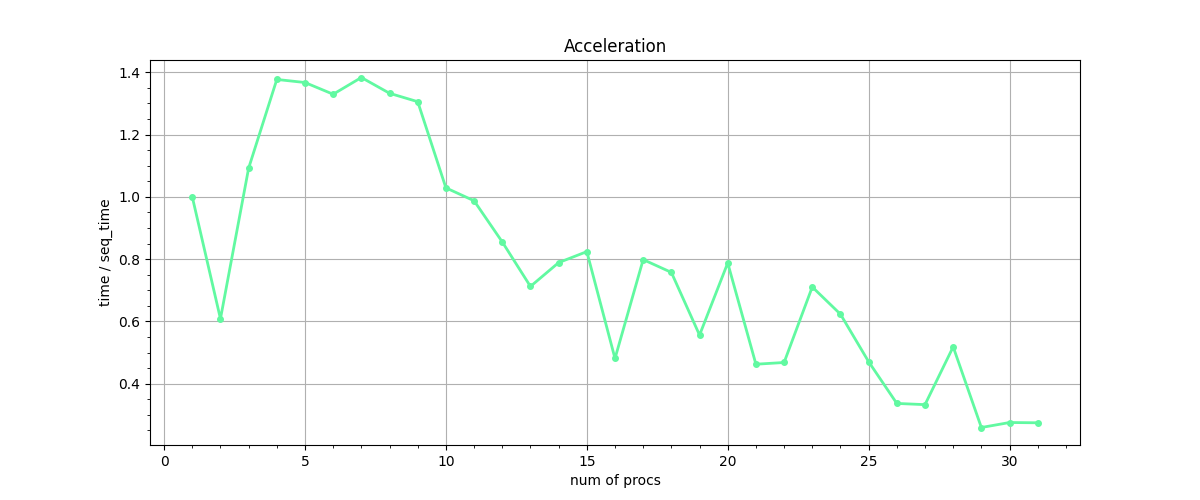
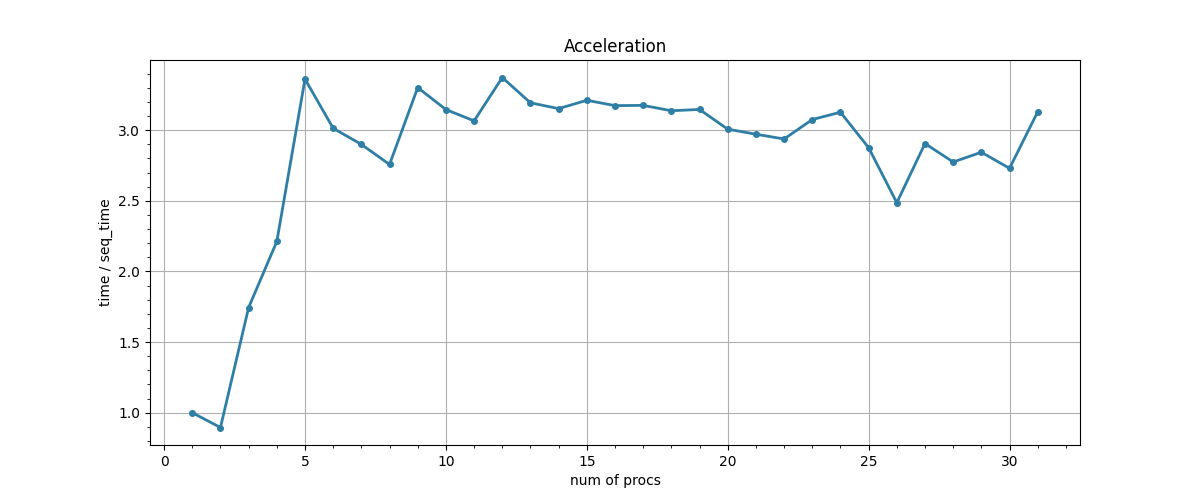
Distribution by executors

diff --git a/ParallelingLoops/1e/parallel.c b/ParallelingLoops/1e/parallel.c
@@ -51,6 +51,39 @@ void foldMatrixByVector(double **matrix, const double *vector, const int len) {
     }
 }
 
+void computeRows(int x_root) {
+    double message[YSIZE + 1];
+    int x0 = x_root;
+    message[0] = (double) x0;
+    double *arr = message + 1;
+    for (int y = 0; y < YSIZE; ++y) {
+        arr[y] = initial_value(y, x0);
+    }
+    MPI_Send(
+        message,
+        YSIZE + 1,
+        MPI_DOUBLE,
+        0, // the zero rank.
+        0,
+        MPI_COMM_WORLD
+    );
+    for (x0 = x0 + 8; x0 < XSIZE; x0 += 8) {
+        message[0] = (double) x0;
+        for (int y = YSIZE-1; y > 0; --y) {
+            arr[y] = sin(5 * arr[y - 1]);
+        }
+        arr[0] = initial_value(0, x0);
+        MPI_Send(
+            message,
+            YSIZE + 1,
+            MPI_DOUBLE,
+            0, // the zero rank.
+            0,
+            MPI_COMM_WORLD
+        );
+    }
+}
+
 int main(int argc, char* argv[]) {
     if (argc != 1 && argc != 2) {
         printf("Wrong number of args! Please provide 2 arguments\n");
@@ -94,7 +127,6 @@ int main(int argc, char* argv[]) {
                 MPI_COMM_WORLD,
                 &status
             );
-            int x0 = (int) buf[0];
             int message_len = 0;
             MPI_Get_count(&status, MPI_DOUBLE, &message_len);
             DB_PRINT("get message from %i, len = %i, x0 = %i\n",
@@ -106,35 +138,10 @@ int main(int argc, char* argv[]) {
         // Not null rank
         int s = world_size - 1; // executing processes
         // Computing row roots
-        double message[YSIZE + 1];
-        int x0 = my_rank - 1;
-        message[0] = (double) x0;
-        double *arr = message + 1;
-        for (int y = 0; y < YSIZE; ++y) {
-            arr[y] = initial_value(y, x0);
-        }
-        MPI_Send(
-            message,
-            YSIZE + 1,
-            MPI_DOUBLE,
-            0, // the zero rank.
-            0,
-            MPI_COMM_WORLD
-        );
-        for (x0 = x0 + 8; x0 < XSIZE; x0 += 8) {
-            message[0] = (double) x0;
-            for (int y = YSIZE-1; y > 0; --y) {
-                arr[y] = sin(5 * arr[y - 1]);
-            }
-            arr[0] = initial_value(0, x0);
-            MPI_Send(
-                message,
-                YSIZE + 1,
-                MPI_DOUBLE,
-                0, // the zero rank.
-                0,
-                MPI_COMM_WORLD
-            );
+        int root = my_rank - 1;
+        while (root < 8) {
+            computeRows(root);
+            root += s;
         }
     }
     double time_2 = MPI_Wtime();
